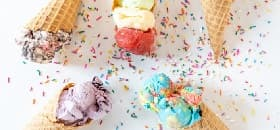
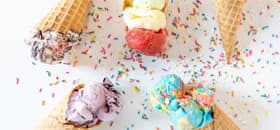
commit_gallery_5
с правильными изображениями

diff --git a/src/partials/section-gallery.html b/src/partials/section-gallery.html
@@ -16,11 +16,11 @@
 <li>
         <picture class="slide">
           <source srcset="/src/images/images-gallery/ice_des1@1x.jpg 1x, /src/images/images-gallery/ice_des1@2x.jpg 2x"
-            media="(min-width: 1200px)" />
-          <source srcset="/src/images/images-gallery/ice_tab1@1x.jpg 1x"
-            media="(min-width: 768px)" />
-          <source srcset="/src/images/images-gallery/ice_mob1@1x.jpg 1x"
-            media="(max-width: 767px)" />
+            media="(min-width: 1200px)"/>
+          <source srcset="/src/images/images-gallery/ice_tab1@1x.jpg 1x, /src/images/images-gallery/ice_tab1@2x.jpg 2x"
+            media="(min-width: 768px)"/>
+          <source srcset="/src/images/images-gallery/ice_mob1@1x.jpg 1x, /src/images/images-gallery/ice_mob1@2x.jpg 2x"
+            media="(max-width: 767px)"/>
           <img src="/src/images/images-gallery/ice_des1@1x.jpg" alt="Ice1" width="1013">
         </picture>
 </li>
@@ -28,8 +28,8 @@
         <picture class="slide">
           <source srcset="/src/images/images-gallery/ice_des2@1x.jpg 1x, /src/images/images-gallery/ice_des2@2x.jpg 2x"
             media="(min-width: 1200px)" />
-          <source srcset="/src/images/images-gallery/ice_tab2@1x.jpg 1x" media="(min-width: 768px)" />
-          <source srcset="/src/images/images-gallery/ice_mob2@1x.jpg 1x" media="(max-width: 767px)" />
+          <source srcset="/src/images/images-gallery/ice_tab2@1x.jpg 1x, /src/images/images-gallery/ice_tab2@2x.jpg 2x" media="(min-width: 768px)" />
+          <source srcset="/src/images/images-gallery/ice_mob2@1x.jpg 1x, /src/images/images-gallery/ice_mob2@2x.jpg 2x" media="(max-width: 767px)" />
           <img src="/src/images/images-gallery/ice_des2@1x.jpg" alt="Ice2" width="1013">
         </picture>
 </li>

diff --git a/src/sass/components/_section-gallery.scss b/src/sass/components/_section-gallery.scss
@@ -9,6 +9,7 @@ background-image: linear-gradient((var(--bg-color) 44%, transparent 44%), (var(-
 background-image: linear-gradient((var(--bg-color) 23%, transparent 23%), (var(--bg-color) 23%, transparent 23%));
 }
 }
+
 .slides {
 width: 280px;
 height: 130px;
@@ -40,7 +41,7 @@ height: 422px;
     0% {opacity: 1;}
     22% {opacity: 1;}
     33% {opacity: 0;}
-    88% {opacity: 0;}
+    89% {opacity: 0;}
     100% {opacity: 1;}
 }
 
@@ -58,6 +59,7 @@ animation-delay: 0;
 animation-play-state: running;
 animation-fill-mode: forwards;
 }
+
 .slides ul li:nth-child(1) {
     animation-delay: 0s;
 }
